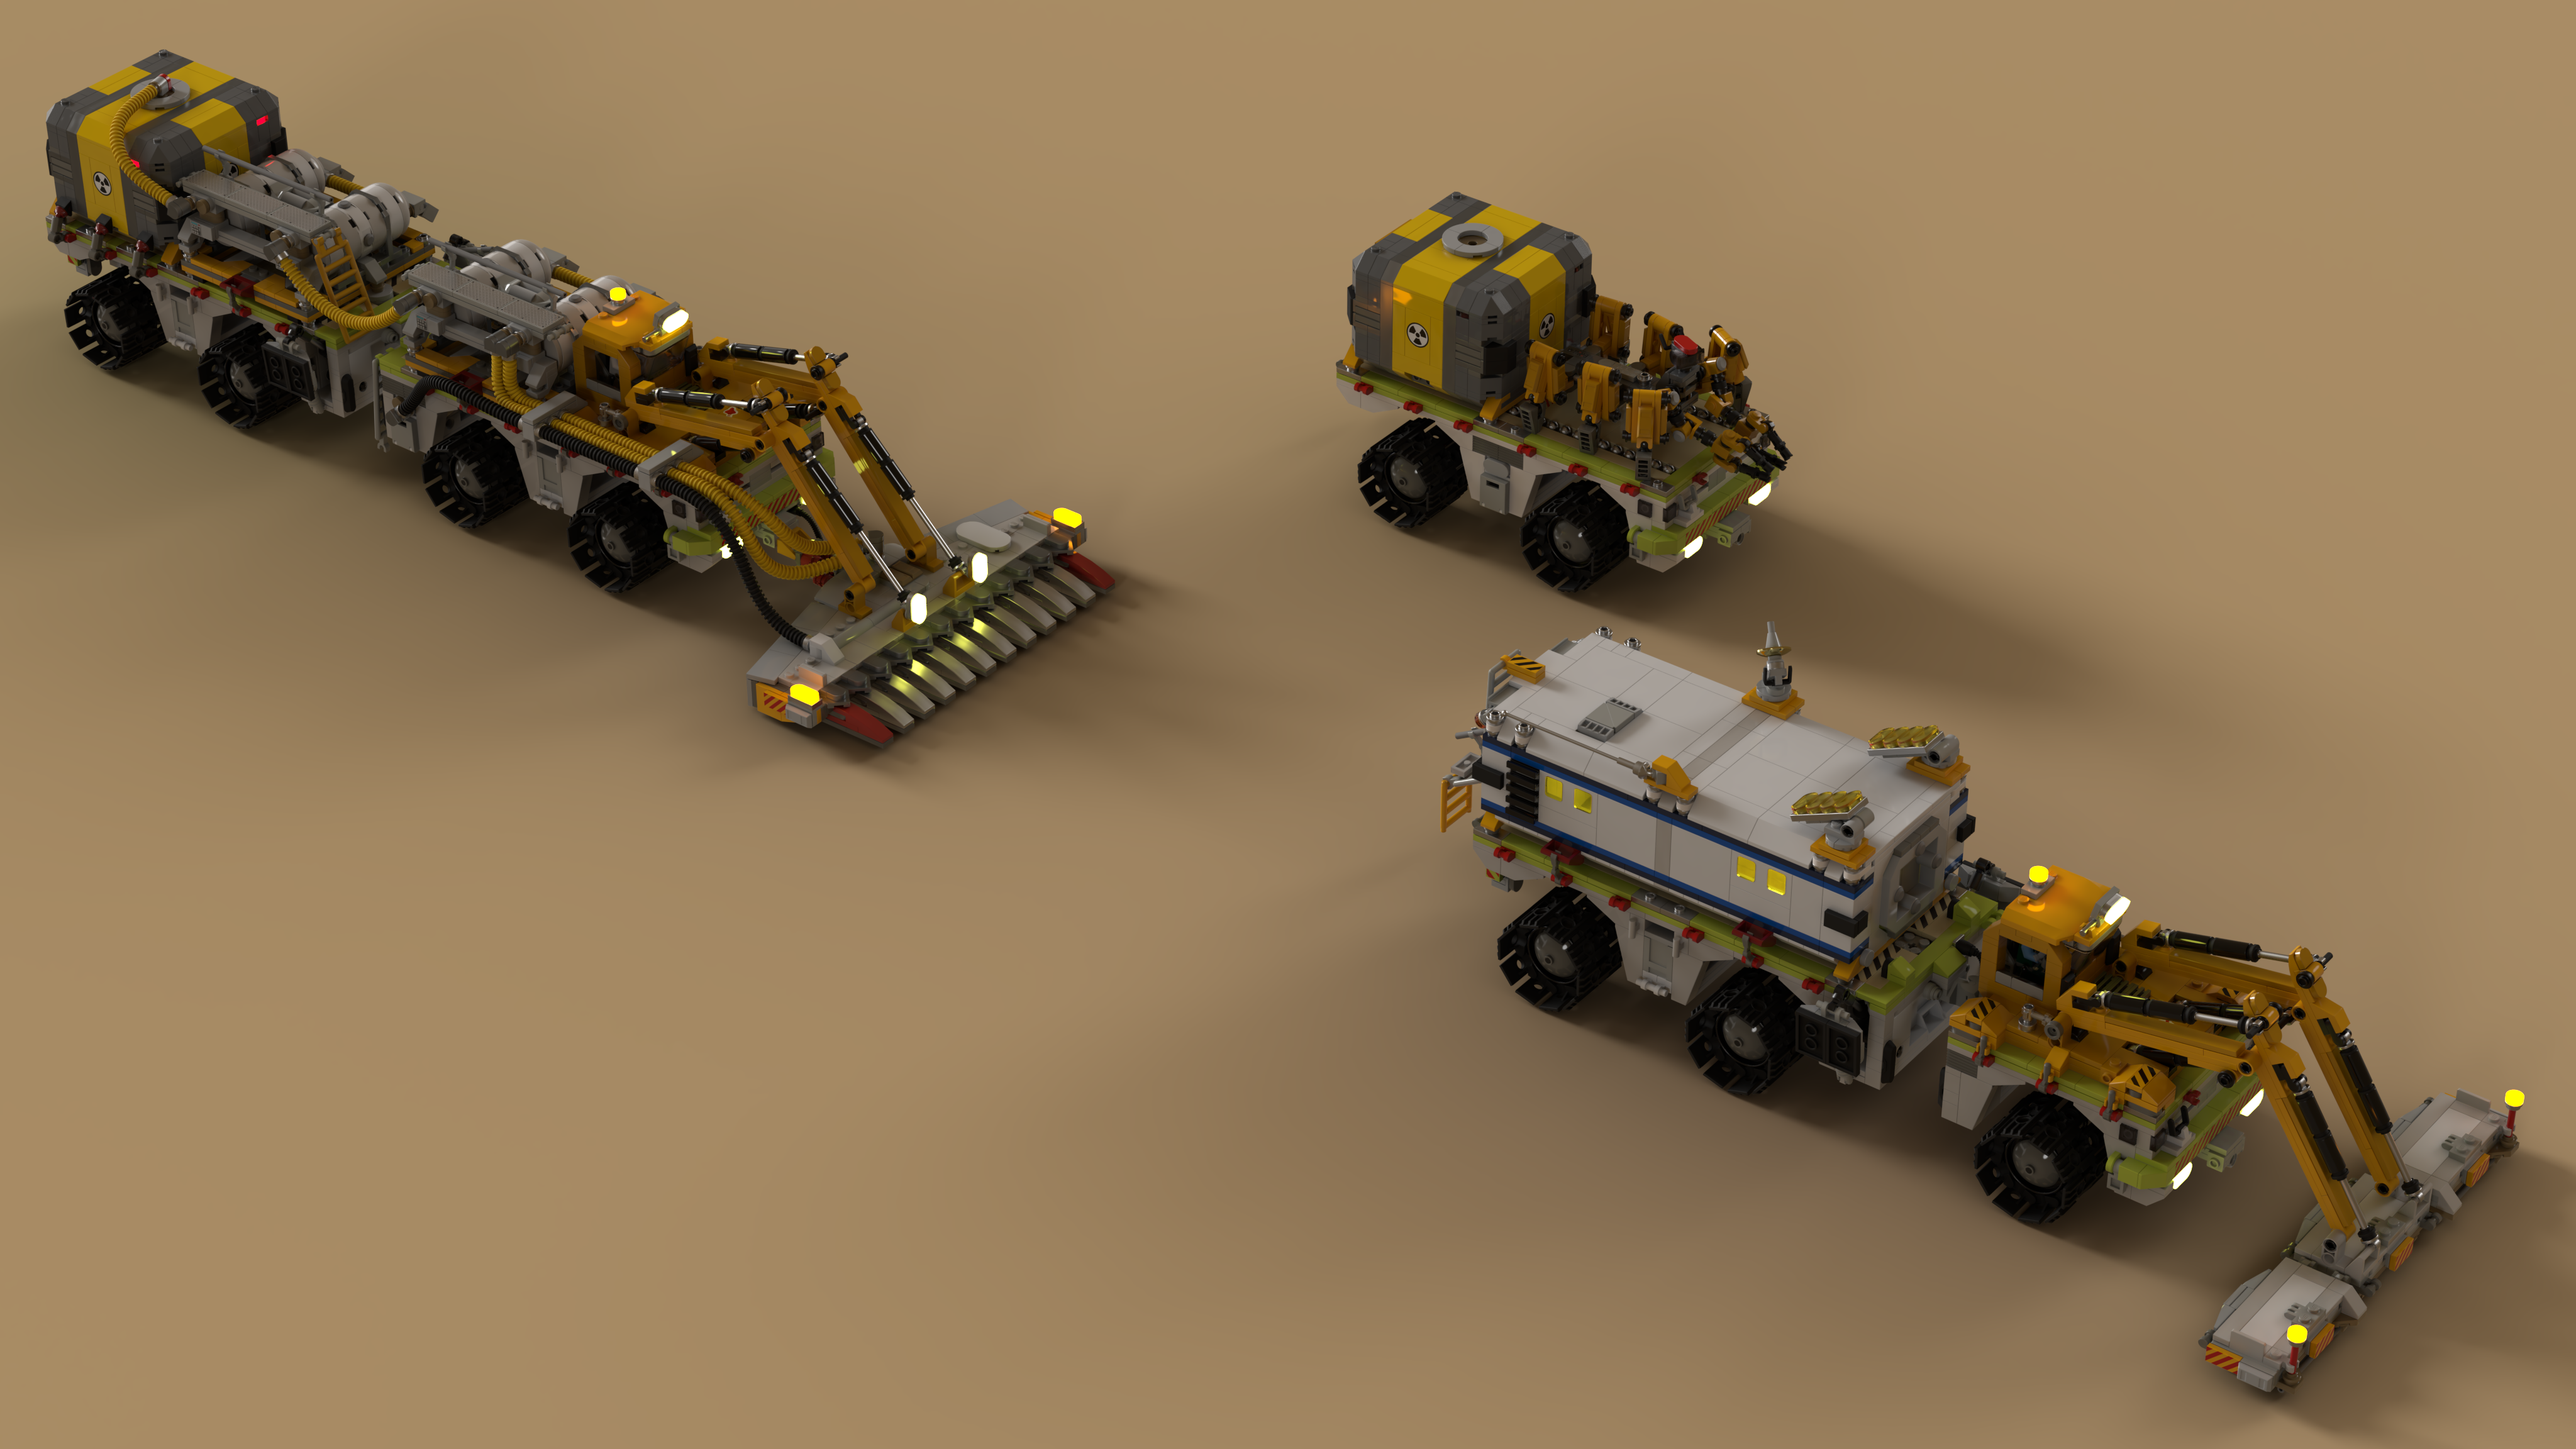
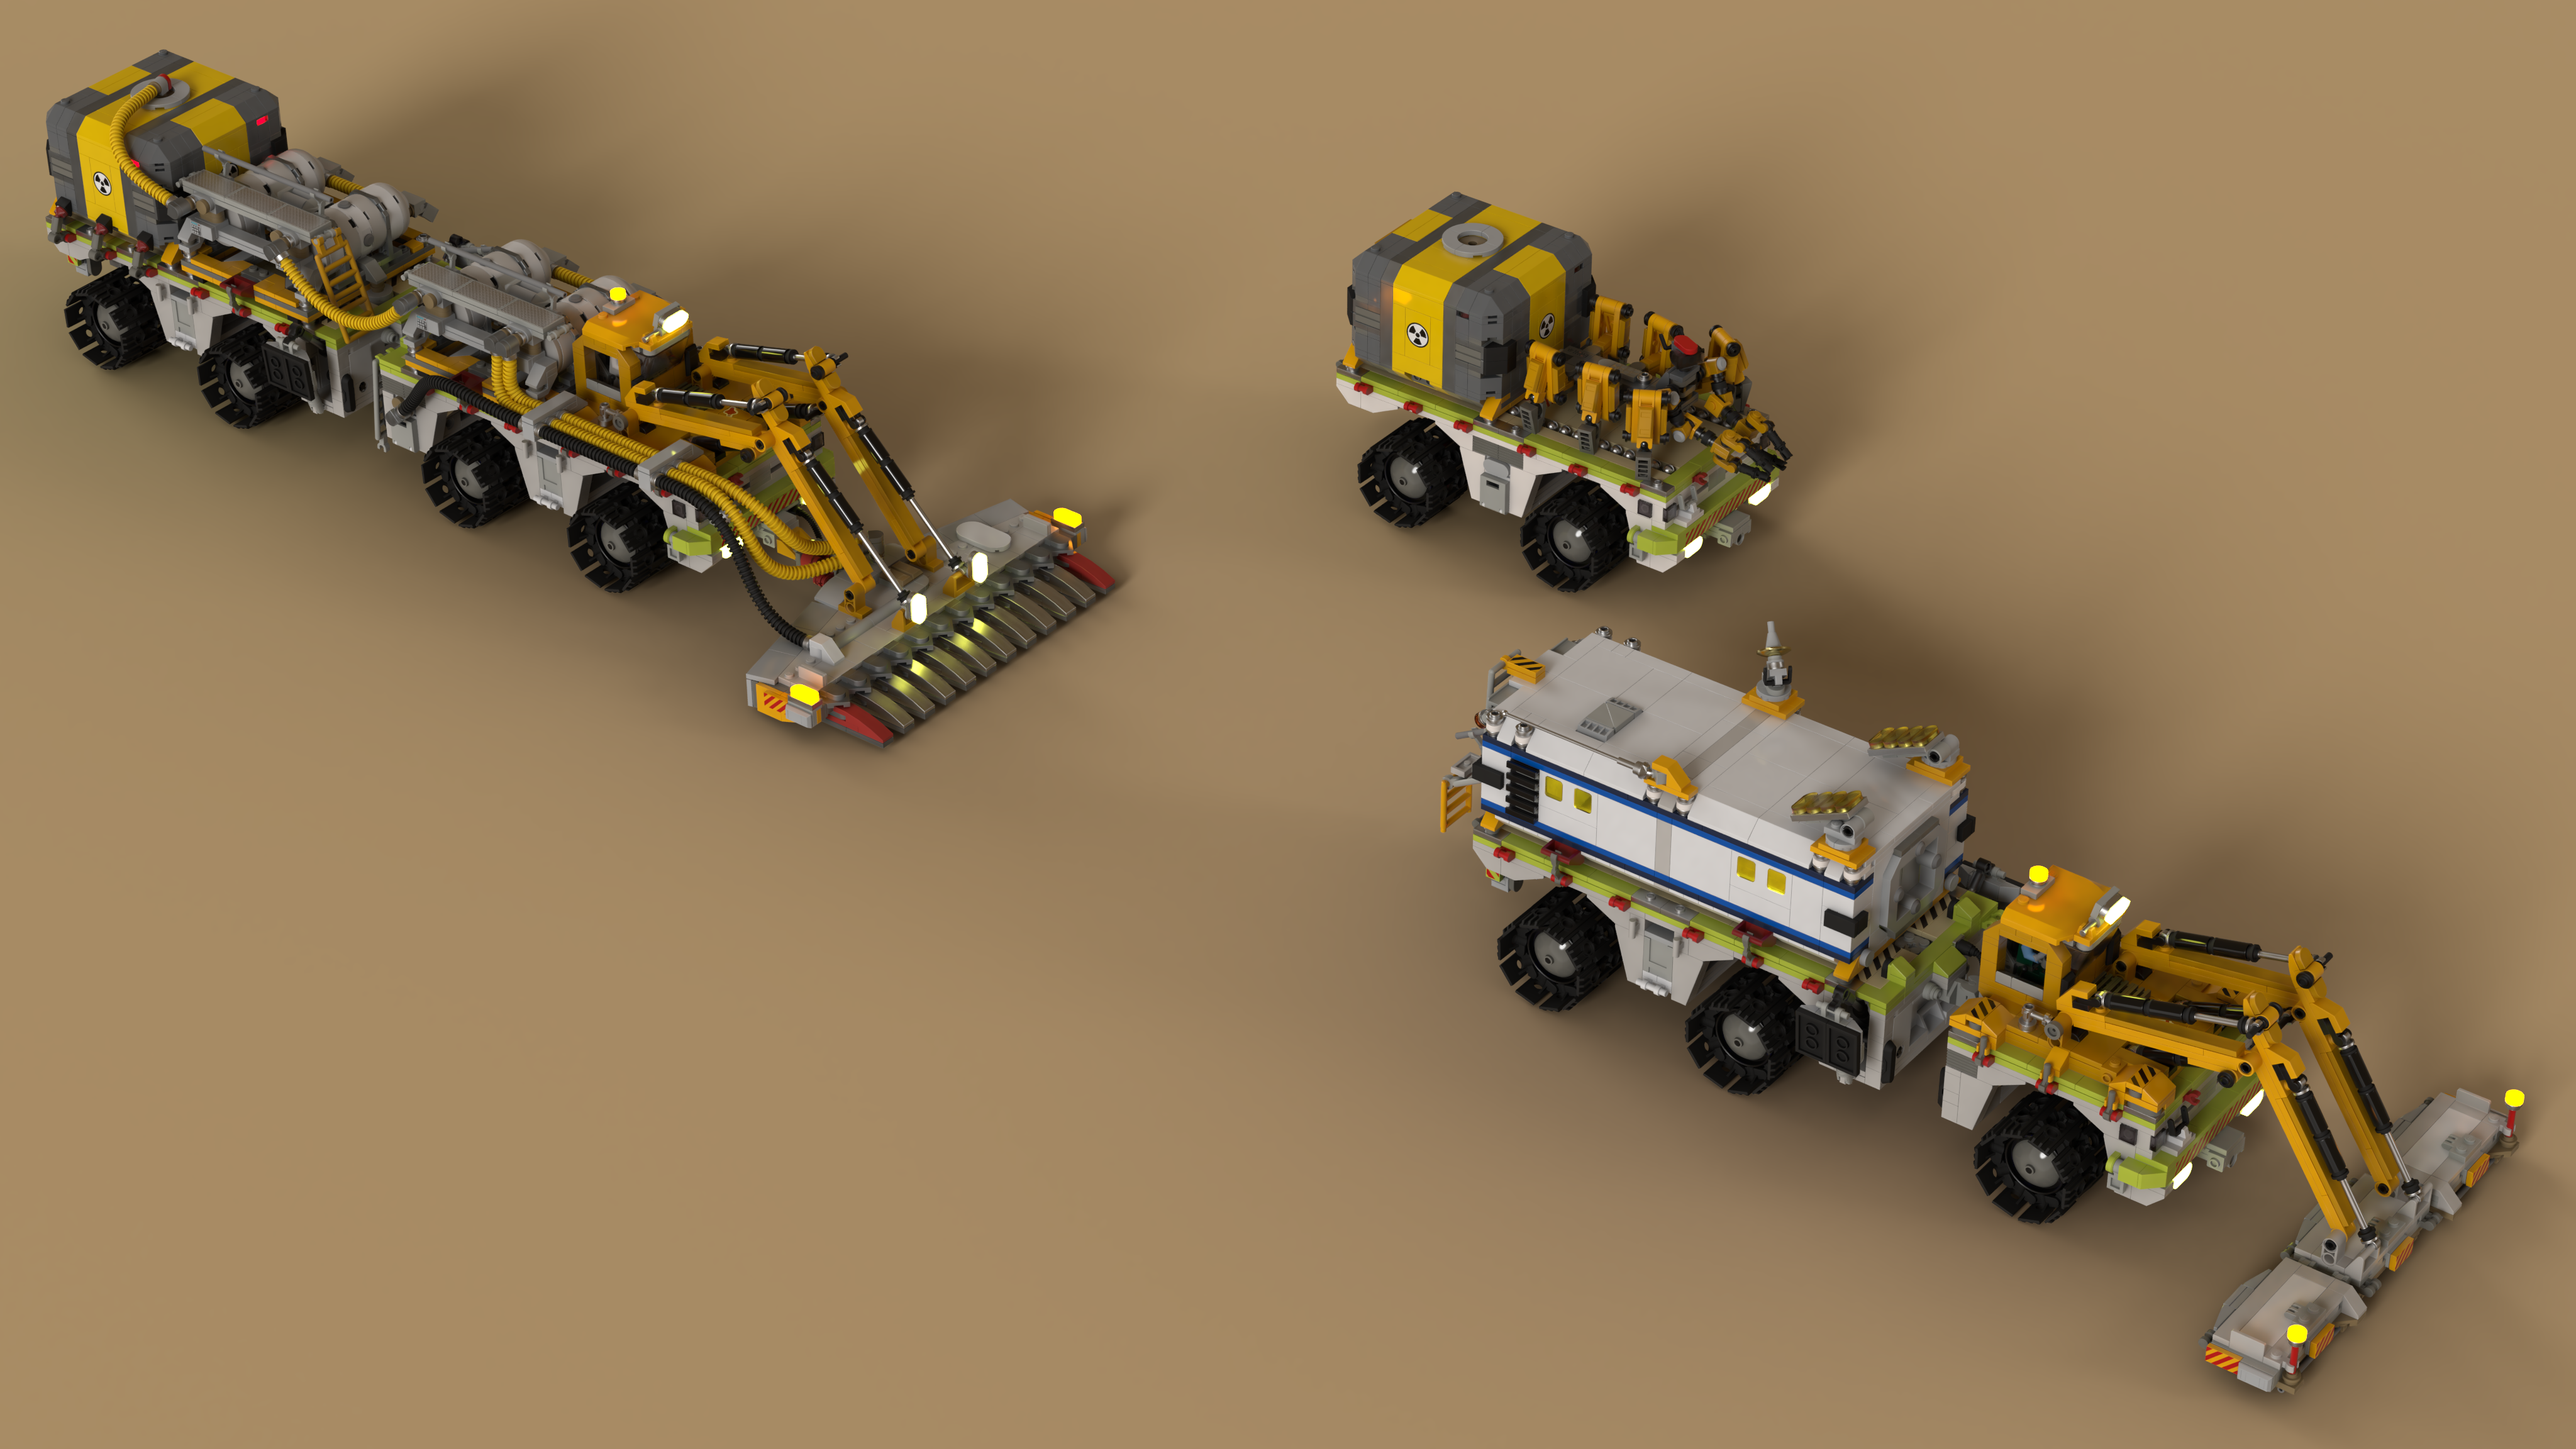
RP-07 updates

Changed region(s): [[0.5625, 0.4375, 1.0, 1.0], [0.0, 0.0312, 0.5, 0.5312], [0.5, 0.125, 0.75, 0.4375]]

diff --git a/vignettes/rp-07/planet-side/README.md b/vignettes/rp-07/planet-side/README.md
@@ -12,6 +12,9 @@
 
 ![](erimos-spaceport_2.png)
 
+## B.U.G. (Biomorphic Unit, Ground)
+![](bug.png)
+
 ## Sting Ray Upgrade
 ![](sting-ray-sensors+bug_1.png)
 
